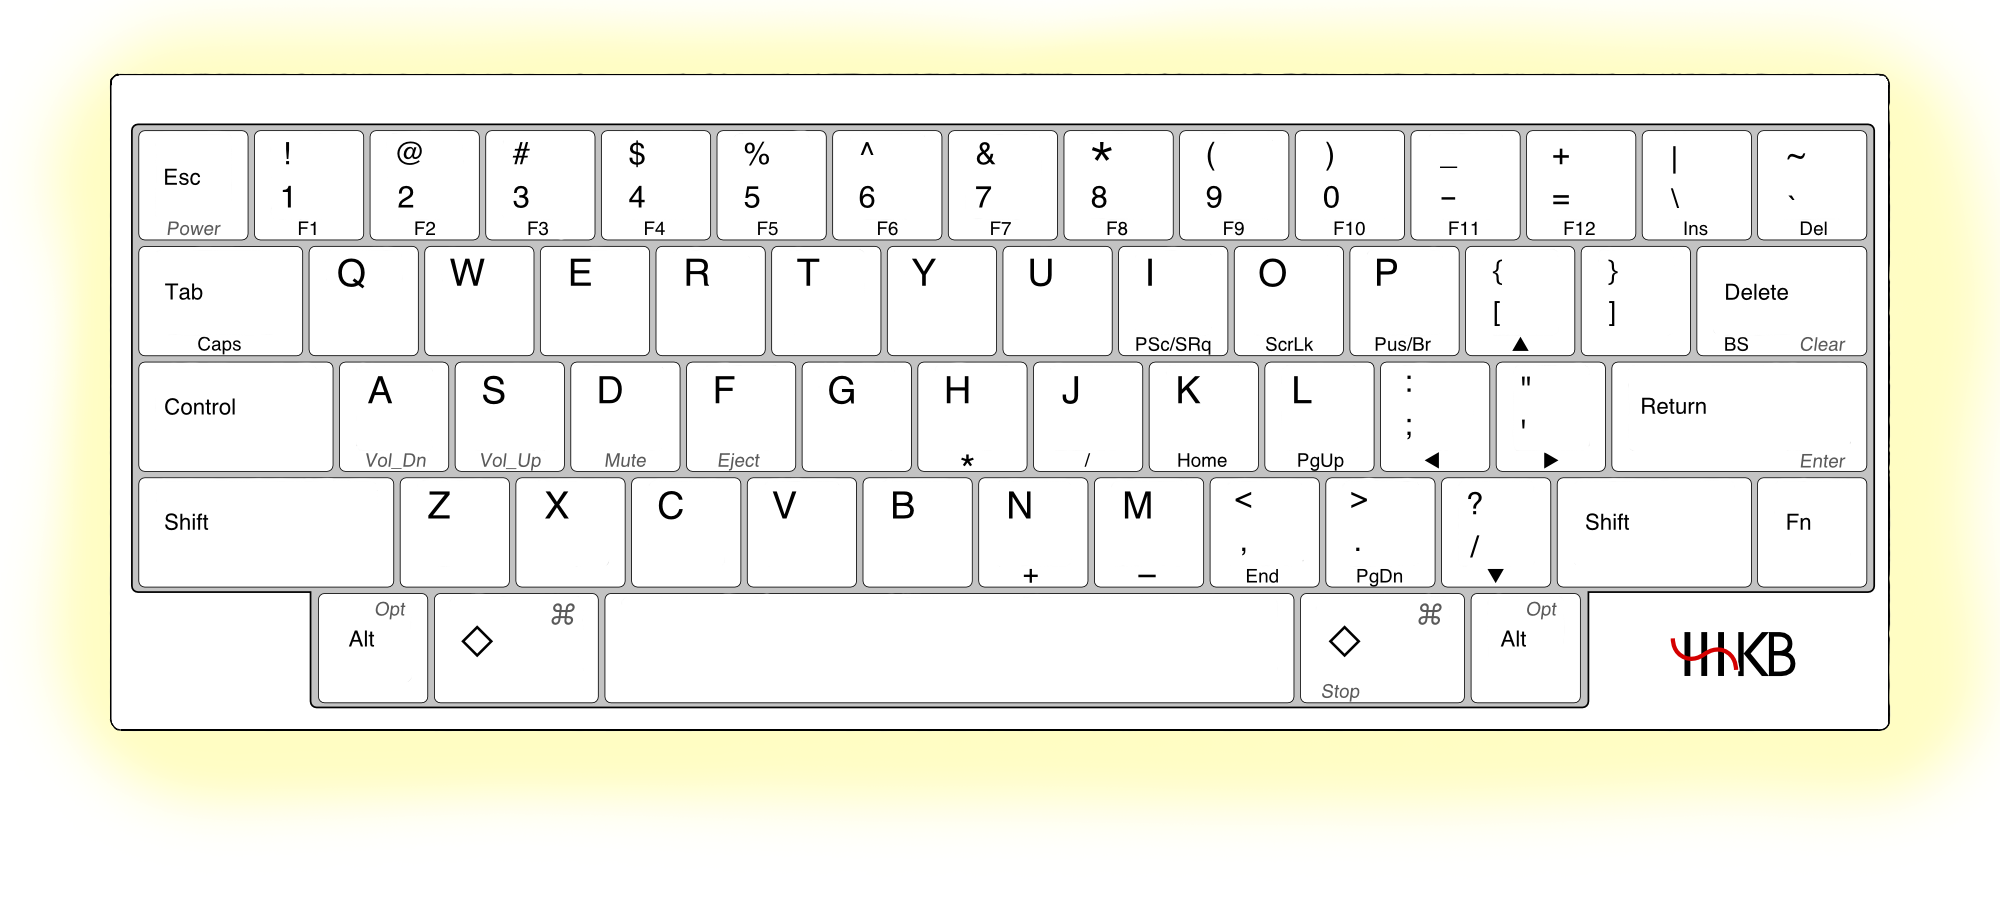
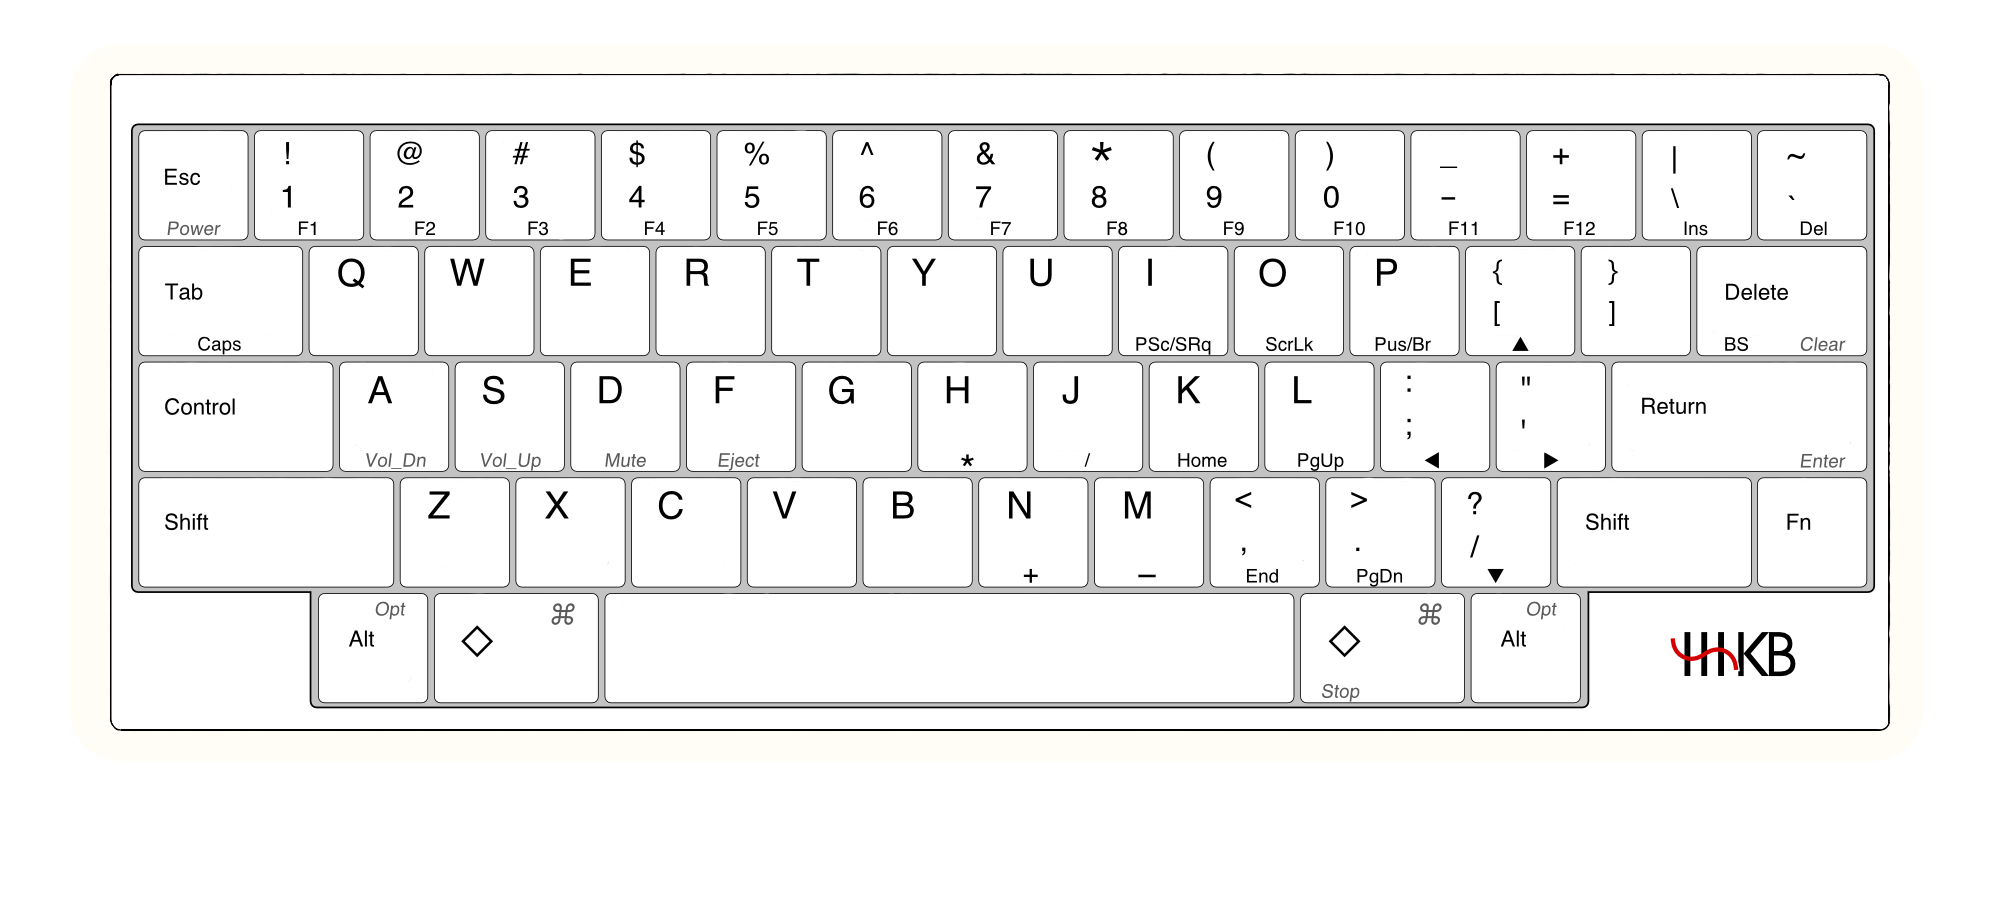
Implement beautiful bg images

Changed region(s): [[0.0, 0.0, 1.0, 0.9032]]

diff --git a/src/layouts/index.js b/src/layouts/index.js
@@ -2,8 +2,11 @@ import React from 'react'
 import PropTypes from 'prop-types'
 import Link from 'gatsby-link'
 import Helmet from 'react-helmet'
+import divineLinks from '../data/imagelinks'
 
 import './index.css'
+
+const bgImg = divineLinks[Math.floor(Math.random() * divineLinks.length)]
 
 const Header = () =>
   <div
@@ -34,7 +37,10 @@ const Header = () =>
   </div>
 
 const TemplateWrapper = ({ children }) =>
-  <div>
+  <div style={{
+    backgroundImage: `url(${bgImg})`,
+    backgroundSize: 'cover'
+  }}>
     <Helmet
       title="YOU CAN DO IT"
       meta={[

diff --git a/src/pages/index.js b/src/pages/index.js
@@ -3,13 +3,14 @@ import ancientQuotes from '../data/quotes'
 import keeb from './hhkb.png'
 import './index.css'
 
+
 const IndexPage = () =>
   <div>
-  <div className="quotewrapper">
-    <div className="quote">
-      <p>{ ancientQuotes[[Math.floor(Math.random() * ancientQuotes.length)]] }.</p>
+    <div className="quotewrapper">
+      <div className="quote">
+        <p>{ ancientQuotes[Math.floor(Math.random() * ancientQuotes.length)] }.</p>
+      </div>
     </div>
-  </div>
 
     <div className="imagewrapper">
       <img src={keeb} alt="keyboard layout"/>

diff --git a/src/data/imagelinks.js b/src/data/imagelinks.js
@@ -1,0 +1,6 @@
+const imageLinks = [
+  'https://imgur.com/M0QigLL.jpg',
+  'https://imgur.com/jqGlvtC.jpg'
+]
+
+export default imageLinks
